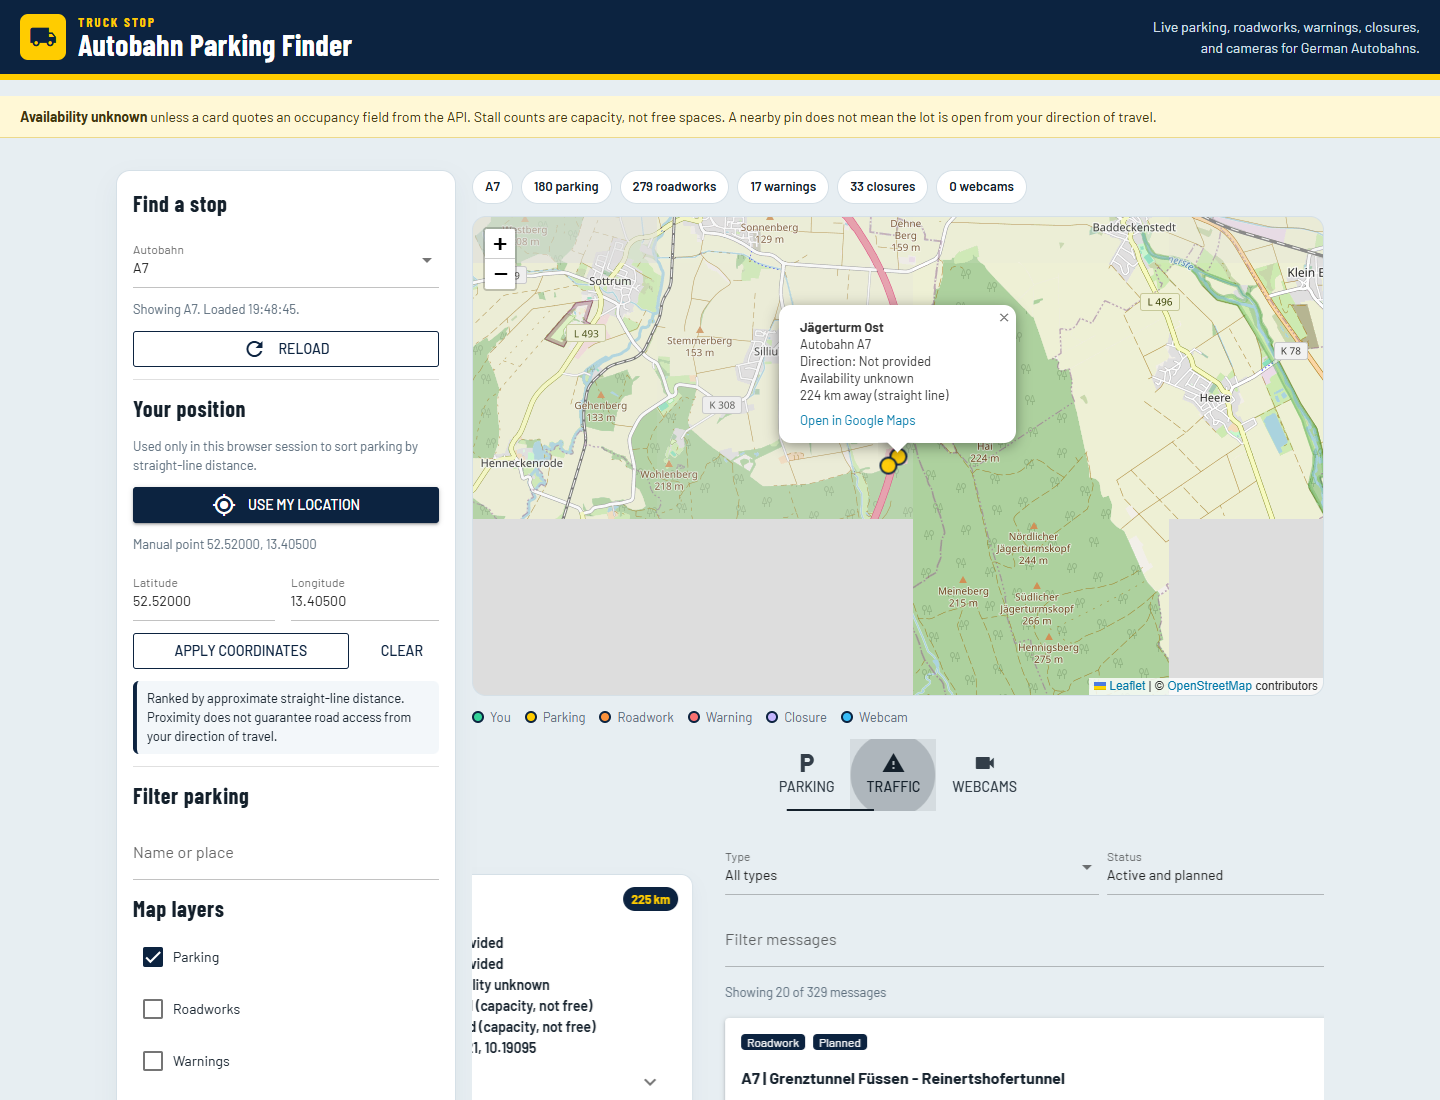
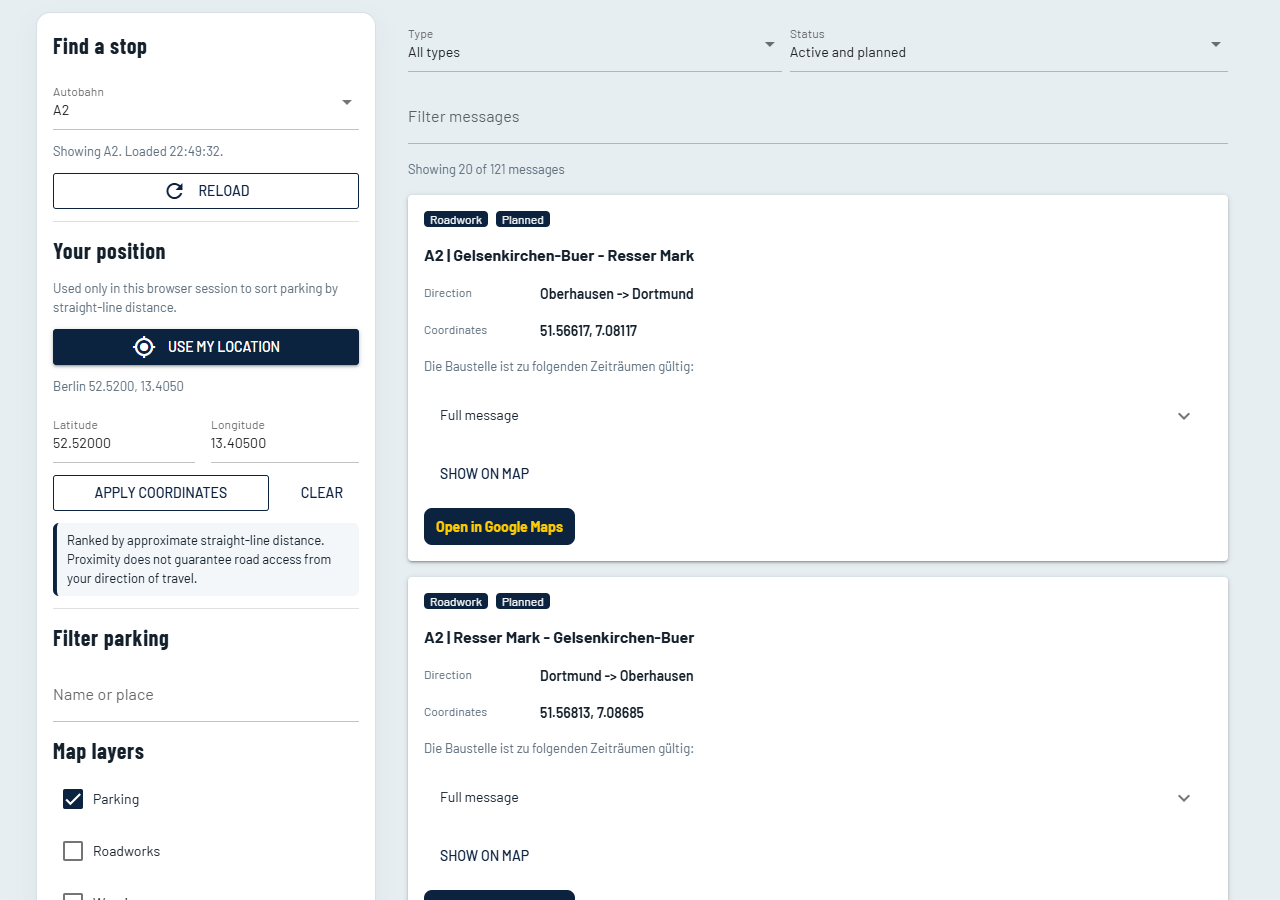
Replace the README screenshots with the current start screen and nearest-stop flow.

diff --git a/README.md b/README.md
@@ -144,13 +144,21 @@ The live feed has moved past the older OpenAPI examples. Parking coordinates usu
 
 ## Screenshots
 
-Desktop, Autobahn A7, parking markers on the map:
+First screen. Pick a road, then a location:
 
-![A7 parking on the map](docs/screenshots/02-a7-parking.png)
+![First screen](docs/screenshots/01-start.png)
 
-Marker popup after **Show on map**, with distance from a manual point in Berlin:
+A2 from Berlin. The bar names the nearest stop, and the line is the straight-line distance:
 
-![Map popup](docs/screenshots/04-map-focus.png)
+![Nearest stop on A2](docs/screenshots/02-nearest-map.png)
+
+The parking chip opens the list on this same page:
+
+![Parking list](docs/screenshots/03-parking-list.png)
+
+**Show on this map** opens that stop on the map already on the page:
+
+![Map popup](docs/screenshots/04-map-popup.png)
 
 Traffic tab (roadworks, warnings, closures):
 
